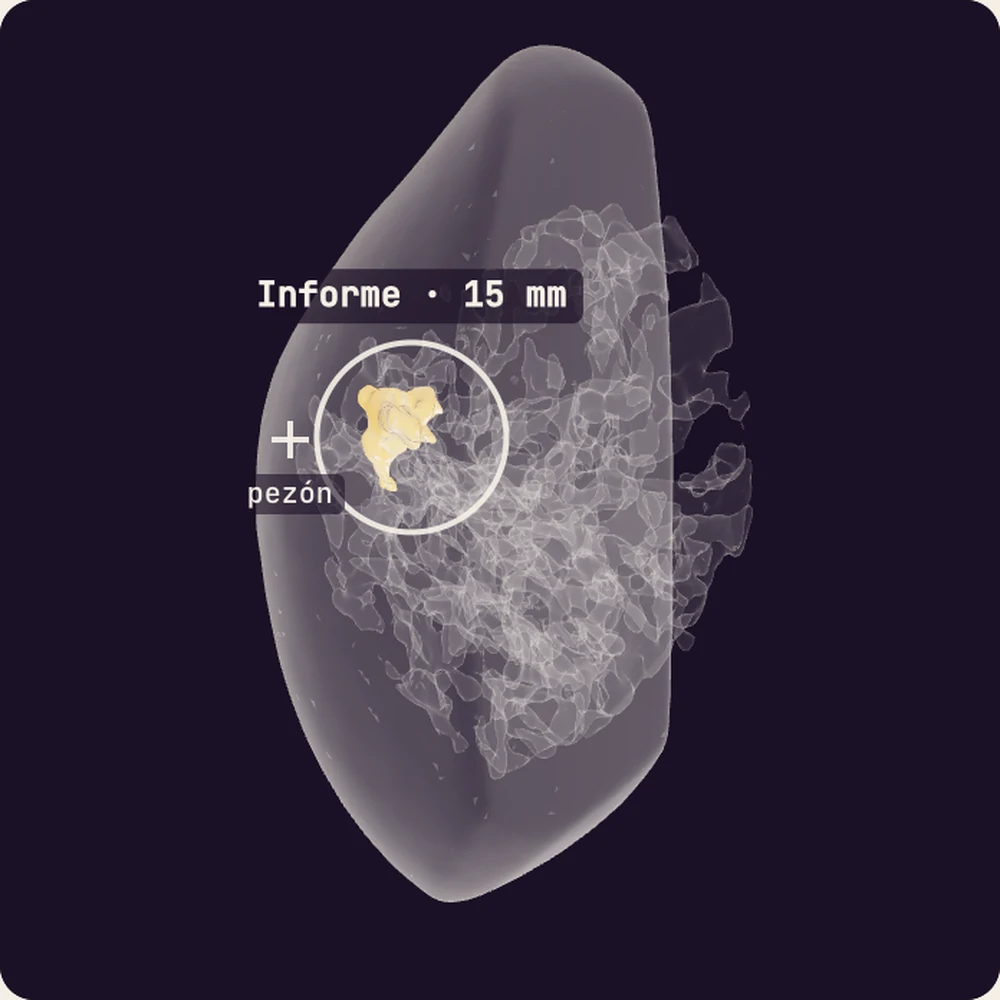
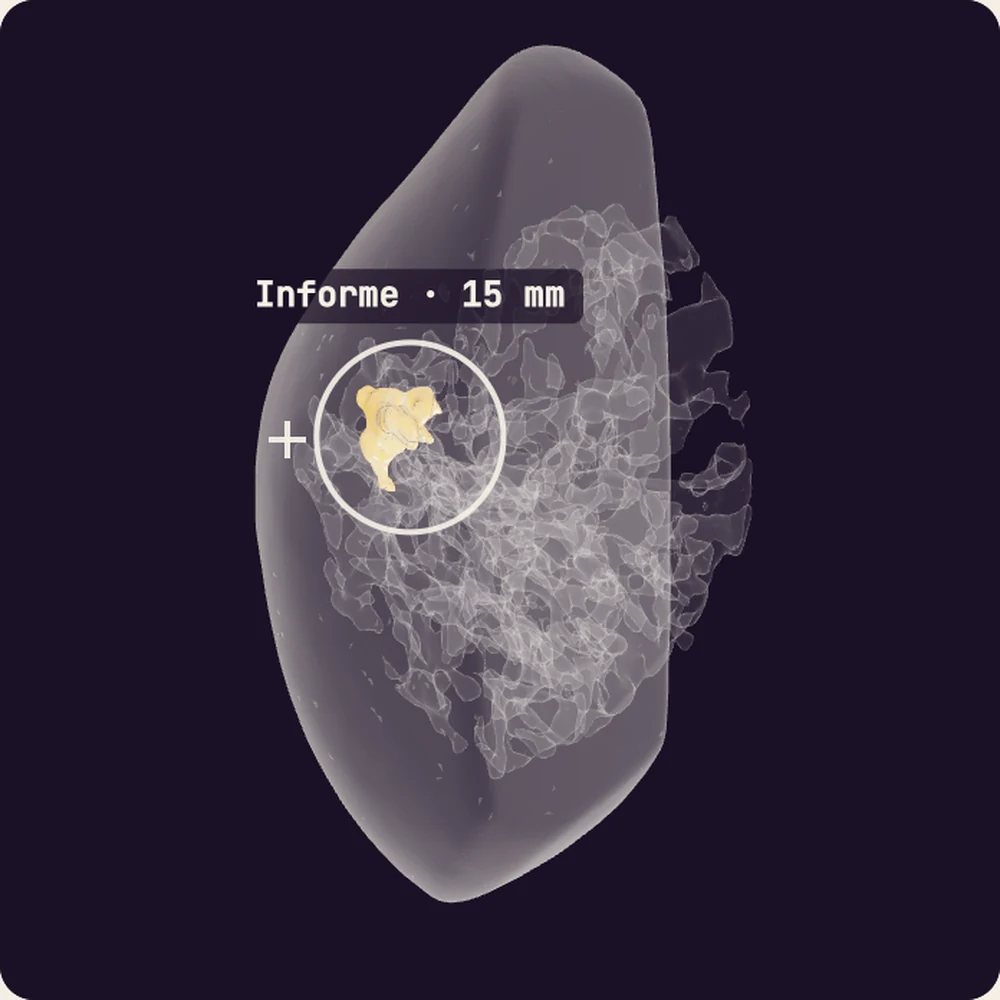
fix(lesiones): la cruz del pezón, sin la palabra encima
Miriam: «lo de ponerlo en texto mejor no». La cruz sola orienta igual, y lo que es queda dicho
en la leyenda de debajo, fuera de la imagen. Menos ruido sobre el render y una palabra menos
escrita sobre su cuerpo.

diff --git a/app/components/BreastView.client.vue b/app/components/BreastView.client.vue
@@ -261,8 +261,9 @@ onBeforeUnmount(() => {
         </template>
       </div>
       <div v-if="!loading && !failed && pezon?.visible" class="absolute inset-0 pointer-events-none" aria-hidden="true">
+        <!-- Miriam, 20-sep: la palabra escrita encima del render, mejor no. La cruz sola orienta
+             igual, y lo que es queda dicho en la leyenda de debajo, fuera de la imagen. -->
         <span class="bv-pezon" :style="{ left: pezon.x + 'px', top: pezon.y + 'px' }" />
-        <span class="bv-pezon-txt" :style="{ left: pezon.x + 'px', top: (pezon.y + 12) + 'px' }">{{ L('pezón', 'nipple') }}</span>
       </div>
       <div v-if="loading" class="absolute inset-0 flex items-center justify-center text-[12px]" style="color:#aeb6c2">
         {{ L('reconstruyendo 3D…', 'rebuilding 3D…') }}
@@ -326,11 +327,6 @@ onBeforeUnmount(() => {
   background:
     linear-gradient(to right, transparent 5.5px, rgba(245, 239, 230, 0.95) 5.5px 7.5px, transparent 7.5px),
     linear-gradient(to bottom, transparent 5.5px, rgba(245, 239, 230, 0.95) 5.5px 7.5px, transparent 7.5px);
-}
-.bv-pezon-txt {
-  position: absolute; transform: translate(-50%, 0); white-space: nowrap;
-  font: 500 10px/1.2 'JetBrains Mono', ui-monospace, monospace; color: #F5EFE6;
-  background: rgba(28, 17, 38, 0.6); padding: 1px 4px; border-radius: 3px;
 }
 .bv-reencuadre {
   position: absolute; bottom: 10px; right: 10px; width: 44px; height: 44px;
